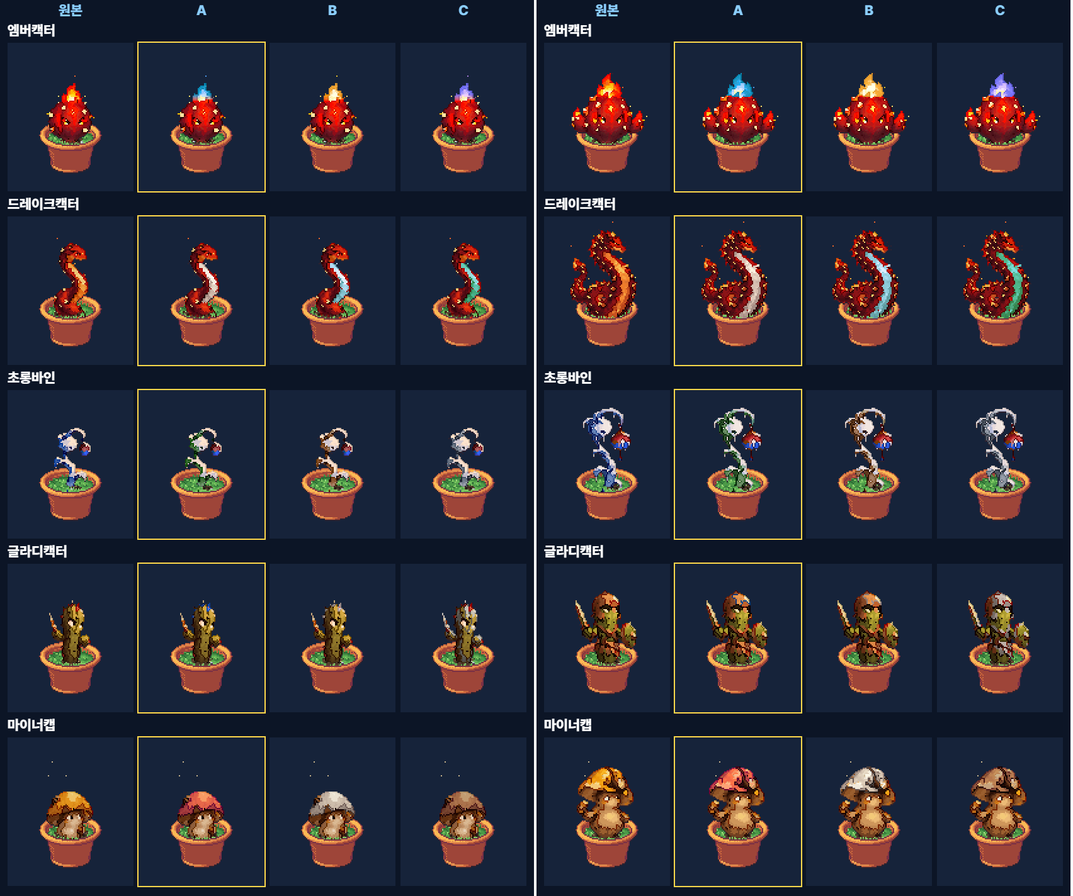
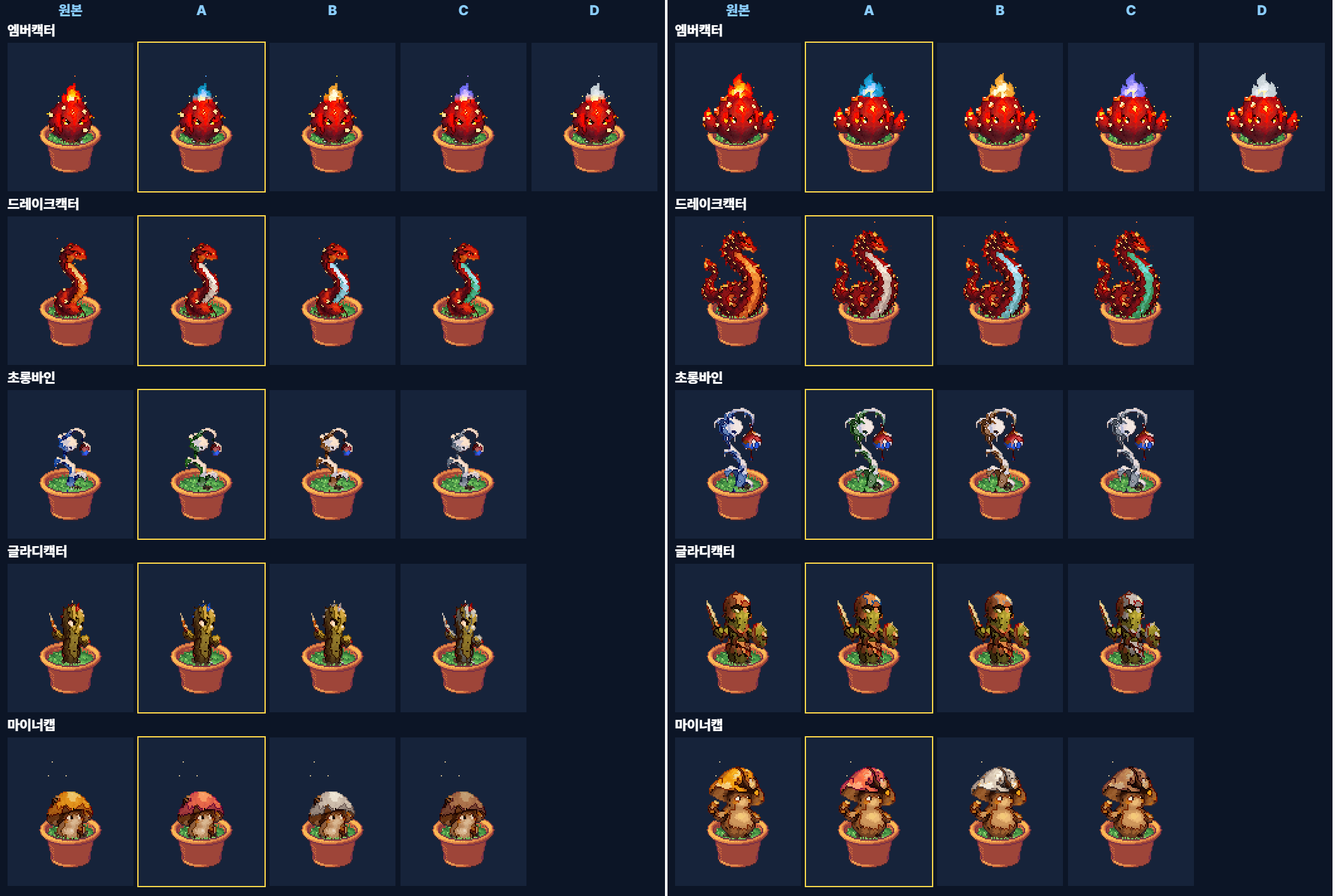
feat: 엠버캑터 색 변종 후보 넷째 — 하얀 불(D)
- 띠의 lk(밝기를 흰색 쪽으로 모음) · 채도 0.06배
- 후보 D: 생성기 fire4 · 검토판 D 칸 · 대표 그림 키 ~s[A-D] · 시험

diff --git a/v2/src/art/shinyRules.js b/v2/src/art/shinyRules.js
@@ -8,7 +8,7 @@ export const SHINY_RULES = {
   flower_wind: { pick: 'A', A: [{ h: [275,340], to: 235 }], B: [{ h: [275,340], to: 350, ck: 0.55, dl: 0.08 }], C: [{ h: [275,340], to: 90, dl: 0.17 }] },
   spark: { pick: 'A', A: [{ h: [75,115], to: 255, ck: 0.45, l: [0.6,1.01] }], B: [{ h: [75,115], to: 350, ck: 0.9, l: [0.6,1.01] }], C: [{ h: [75,115], to: 48, l: [0.6,1.01] }] },
   vine_water: { pick: 'A', A: [{ h: [95,182], to: 88, hs: 0.3, dl: 0.04 }], B: [{ h: [95,182], to: 40, hs: 0.3 }], C: [{ h: [195,265], to: 250, ck: 0.2, dl: 0.15 }] },
-  cactus_fire: { pick: 'A', A: [{ h: [20,110], to: 250, l: [0.58,1.01], c: 0.08, hs: 0.4, part: {"at":[[0,0,1,0.38]],"min":0.12,"air":0.8,"grow":2,"up":3,"gh":[10,60],"gl":[0.3,1.01],"gc":0.12}, ck: 0.8 }, { h: [45,115], to: 250, l: [0.6,1.01], c: 0.1, hs: 0.4, part: {"at":[[0,0,0.18,1],[0.82,0,1,1]],"min":0.3,"up":6,"taper":0.4,"gh":[10,115],"gl":[0.3,1.01],"gc":0.12}, ck: 0.8 }, { h: [10,60], to: 250, l: [0.3,0.75], c: 0.12, hs: 0.4, part: {"at":[],"air":0.75}, ck: 0.8 }], B: [{ h: [20,110], to: 92, l: [0.58,1.01], c: 0.08, hs: 0.4, part: {"at":[[0,0,1,0.38]],"min":0.12,"air":0.8,"grow":2,"up":3,"gh":[10,60],"gl":[0.3,1.01],"gc":0.12}, ck: 1, dl: 0.15 }, { h: [45,115], to: 92, l: [0.6,1.01], c: 0.1, hs: 0.4, part: {"at":[[0,0,0.18,1],[0.82,0,1,1]],"min":0.3,"up":6,"taper":0.4,"gh":[10,115],"gl":[0.3,1.01],"gc":0.12}, ck: 1, dl: 0.15 }, { h: [10,60], to: 92, l: [0.3,0.75], c: 0.12, hs: 0.4, part: {"at":[],"air":0.75}, ck: 1, dl: 0.15 }], C: [{ h: [20,110], to: 300, l: [0.58,1.01], c: 0.08, hs: 0.4, part: {"at":[[0,0,1,0.38]],"min":0.12,"air":0.8,"grow":2,"up":3,"gh":[10,60],"gl":[0.3,1.01],"gc":0.12}, ck: 0.8 }, { h: [45,115], to: 300, l: [0.6,1.01], c: 0.1, hs: 0.4, part: {"at":[[0,0,0.18,1],[0.82,0,1,1]],"min":0.3,"up":6,"taper":0.4,"gh":[10,115],"gl":[0.3,1.01],"gc":0.12}, ck: 0.8 }, { h: [10,60], to: 300, l: [0.3,0.75], c: 0.12, hs: 0.4, part: {"at":[],"air":0.75}, ck: 0.8 }], young: { A: [{ h: [45,115], to: 250, l: [0.6,1.01], c: 0.1, hs: 0.4, part: {"at":[[0,0,1,0.45]],"min":0.15,"up":6,"taper":0.65,"gh":[10,115],"gl":[0.3,1.01],"gc":0.12}, ck: 0.8 }, { h: [10,60], to: 250, l: [0.3,0.75], c: 0.12, hs: 0.4, part: {"at":[],"air":0.75}, ck: 0.8 }], B: [{ h: [45,115], to: 92, l: [0.6,1.01], c: 0.1, hs: 0.4, part: {"at":[[0,0,1,0.45]],"min":0.15,"up":6,"taper":0.65,"gh":[10,115],"gl":[0.3,1.01],"gc":0.12}, ck: 1, dl: 0.15 }, { h: [10,60], to: 92, l: [0.3,0.75], c: 0.12, hs: 0.4, part: {"at":[],"air":0.75}, ck: 1, dl: 0.15 }], C: [{ h: [45,115], to: 300, l: [0.6,1.01], c: 0.1, hs: 0.4, part: {"at":[[0,0,1,0.45]],"min":0.15,"up":6,"taper":0.65,"gh":[10,115],"gl":[0.3,1.01],"gc":0.12}, ck: 0.8 }, { h: [10,60], to: 300, l: [0.3,0.75], c: 0.12, hs: 0.4, part: {"at":[],"air":0.75}, ck: 0.8 }] }, teen: { A: [{ h: [45,115], to: 250, l: [0.6,1.01], c: 0.1, hs: 0.4, part: {"at":[[0.38,0,0.66,0.33]],"up":6,"g":[[20,45,0.5,1.01,0.18]],"fill":[[35,115,0.6,1.01,0.1]]}, ck: 0.8 }, { h: [10,60], to: 250, l: [0.3,0.75], c: 0.12, hs: 0.4, part: {"at":[],"air":0.75}, ck: 0.8 }], B: [{ h: [45,115], to: 92, l: [0.6,1.01], c: 0.1, hs: 0.4, part: {"at":[[0.38,0,0.66,0.33]],"up":6,"g":[[20,45,0.5,1.01,0.18]],"fill":[[35,115,0.6,1.01,0.1]]}, ck: 1, dl: 0.15 }, { h: [10,60], to: 92, l: [0.3,0.75], c: 0.12, hs: 0.4, part: {"at":[],"air":0.75}, ck: 1, dl: 0.15 }], C: [{ h: [45,115], to: 300, l: [0.6,1.01], c: 0.1, hs: 0.4, part: {"at":[[0.38,0,0.66,0.33]],"up":6,"g":[[20,45,0.5,1.01,0.18]],"fill":[[35,115,0.6,1.01,0.1]]}, ck: 0.8 }, { h: [10,60], to: 300, l: [0.3,0.75], c: 0.12, hs: 0.4, part: {"at":[],"air":0.75}, ck: 0.8 }] }, small: { A: [{ h: [45,115], to: 250, l: [0.6,1.01], c: 0.1, hs: 0.4, part: {"at":[[0,0,1,0.36]],"min":0.3,"air":0.8,"up":3,"gh":[10,115],"gl":[0.3,1.01],"gc":0.12}, ck: 0.8 }, { h: [45,115], to: 250, l: [0.6,1.01], c: 0.1, hs: 0.4, part: {"at":[[0,0,0.18,1],[0.82,0,1,1]],"min":0.3,"up":6,"taper":0.4,"gh":[10,115],"gl":[0.3,1.01],"gc":0.12}, ck: 0.8 }, { h: [10,60], to: 250, l: [0.3,0.75], c: 0.12, hs: 0.4, part: {"at":[],"air":0.75}, ck: 0.8 }], B: [{ h: [45,115], to: 92, l: [0.6,1.01], c: 0.1, hs: 0.4, part: {"at":[[0,0,1,0.36]],"min":0.3,"air":0.8,"up":3,"gh":[10,115],"gl":[0.3,1.01],"gc":0.12}, ck: 1, dl: 0.15 }, { h: [45,115], to: 92, l: [0.6,1.01], c: 0.1, hs: 0.4, part: {"at":[[0,0,0.18,1],[0.82,0,1,1]],"min":0.3,"up":6,"taper":0.4,"gh":[10,115],"gl":[0.3,1.01],"gc":0.12}, ck: 1, dl: 0.15 }, { h: [10,60], to: 92, l: [0.3,0.75], c: 0.12, hs: 0.4, part: {"at":[],"air":0.75}, ck: 1, dl: 0.15 }], C: [{ h: [45,115], to: 300, l: [0.6,1.01], c: 0.1, hs: 0.4, part: {"at":[[0,0,1,0.36]],"min":0.3,"air":0.8,"up":3,"gh":[10,115],"gl":[0.3,1.01],"gc":0.12}, ck: 0.8 }, { h: [45,115], to: 300, l: [0.6,1.01], c: 0.1, hs: 0.4, part: {"at":[[0,0,0.18,1],[0.82,0,1,1]],"min":0.3,"up":6,"taper":0.4,"gh":[10,115],"gl":[0.3,1.01],"gc":0.12}, ck: 0.8 }, { h: [10,60], to: 300, l: [0.3,0.75], c: 0.12, hs: 0.4, part: {"at":[],"air":0.75}, ck: 0.8 }] } },   // 특징 5~45° 85% · 손 규칙 A B C young teen small
+  cactus_fire: { pick: 'A', A: [{ h: [20,110], to: 250, l: [0.58,1.01], c: 0.08, hs: 0.4, part: {"at":[[0,0,1,0.38]],"min":0.12,"air":0.8,"grow":2,"up":3,"gh":[10,60],"gl":[0.3,1.01],"gc":0.12}, ck: 0.8 }, { h: [45,115], to: 250, l: [0.6,1.01], c: 0.1, hs: 0.4, part: {"at":[[0,0,0.18,1],[0.82,0,1,1]],"min":0.3,"up":6,"taper":0.4,"gh":[10,115],"gl":[0.3,1.01],"gc":0.12}, ck: 0.8 }, { h: [10,60], to: 250, l: [0.3,0.75], c: 0.12, hs: 0.4, part: {"at":[],"air":0.75}, ck: 0.8 }], B: [{ h: [20,110], to: 92, l: [0.58,1.01], c: 0.08, hs: 0.4, part: {"at":[[0,0,1,0.38]],"min":0.12,"air":0.8,"grow":2,"up":3,"gh":[10,60],"gl":[0.3,1.01],"gc":0.12}, ck: 1, dl: 0.15 }, { h: [45,115], to: 92, l: [0.6,1.01], c: 0.1, hs: 0.4, part: {"at":[[0,0,0.18,1],[0.82,0,1,1]],"min":0.3,"up":6,"taper":0.4,"gh":[10,115],"gl":[0.3,1.01],"gc":0.12}, ck: 1, dl: 0.15 }, { h: [10,60], to: 92, l: [0.3,0.75], c: 0.12, hs: 0.4, part: {"at":[],"air":0.75}, ck: 1, dl: 0.15 }], C: [{ h: [20,110], to: 300, l: [0.58,1.01], c: 0.08, hs: 0.4, part: {"at":[[0,0,1,0.38]],"min":0.12,"air":0.8,"grow":2,"up":3,"gh":[10,60],"gl":[0.3,1.01],"gc":0.12}, ck: 0.8 }, { h: [45,115], to: 300, l: [0.6,1.01], c: 0.1, hs: 0.4, part: {"at":[[0,0,0.18,1],[0.82,0,1,1]],"min":0.3,"up":6,"taper":0.4,"gh":[10,115],"gl":[0.3,1.01],"gc":0.12}, ck: 0.8 }, { h: [10,60], to: 300, l: [0.3,0.75], c: 0.12, hs: 0.4, part: {"at":[],"air":0.75}, ck: 0.8 }], D: [{ h: [20,110], to: 250, l: [0.58,1.01], c: 0.08, hs: 0.4, part: {"at":[[0,0,1,0.38]],"min":0.12,"air":0.8,"grow":2,"up":3,"gh":[10,60],"gl":[0.3,1.01],"gc":0.12}, ck: 0.06, lk: 0.4 }, { h: [45,115], to: 250, l: [0.6,1.01], c: 0.1, hs: 0.4, part: {"at":[[0,0,0.18,1],[0.82,0,1,1]],"min":0.3,"up":6,"taper":0.4,"gh":[10,115],"gl":[0.3,1.01],"gc":0.12}, ck: 0.06, lk: 0.4 }, { h: [10,60], to: 250, l: [0.3,0.75], c: 0.12, hs: 0.4, part: {"at":[],"air":0.75}, ck: 0.06, lk: 0.4 }], young: { A: [{ h: [45,115], to: 250, l: [0.6,1.01], c: 0.1, hs: 0.4, part: {"at":[[0,0,1,0.45]],"min":0.15,"up":6,"taper":0.65,"gh":[10,115],"gl":[0.3,1.01],"gc":0.12}, ck: 0.8 }, { h: [10,60], to: 250, l: [0.3,0.75], c: 0.12, hs: 0.4, part: {"at":[],"air":0.75}, ck: 0.8 }], B: [{ h: [45,115], to: 92, l: [0.6,1.01], c: 0.1, hs: 0.4, part: {"at":[[0,0,1,0.45]],"min":0.15,"up":6,"taper":0.65,"gh":[10,115],"gl":[0.3,1.01],"gc":0.12}, ck: 1, dl: 0.15 }, { h: [10,60], to: 92, l: [0.3,0.75], c: 0.12, hs: 0.4, part: {"at":[],"air":0.75}, ck: 1, dl: 0.15 }], C: [{ h: [45,115], to: 300, l: [0.6,1.01], c: 0.1, hs: 0.4, part: {"at":[[0,0,1,0.45]],"min":0.15,"up":6,"taper":0.65,"gh":[10,115],"gl":[0.3,1.01],"gc":0.12}, ck: 0.8 }, { h: [10,60], to: 300, l: [0.3,0.75], c: 0.12, hs: 0.4, part: {"at":[],"air":0.75}, ck: 0.8 }], D: [{ h: [45,115], to: 250, l: [0.6,1.01], c: 0.1, hs: 0.4, part: {"at":[[0,0,1,0.45]],"min":0.15,"up":6,"taper":0.65,"gh":[10,115],"gl":[0.3,1.01],"gc":0.12}, ck: 0.06, lk: 0.4 }, { h: [10,60], to: 250, l: [0.3,0.75], c: 0.12, hs: 0.4, part: {"at":[],"air":0.75}, ck: 0.06, lk: 0.4 }] }, teen: { A: [{ h: [45,115], to: 250, l: [0.6,1.01], c: 0.1, hs: 0.4, part: {"at":[[0.38,0,0.66,0.33]],"up":6,"g":[[20,45,0.5,1.01,0.18]],"fill":[[35,115,0.6,1.01,0.1]]}, ck: 0.8 }, { h: [10,60], to: 250, l: [0.3,0.75], c: 0.12, hs: 0.4, part: {"at":[],"air":0.75}, ck: 0.8 }], B: [{ h: [45,115], to: 92, l: [0.6,1.01], c: 0.1, hs: 0.4, part: {"at":[[0.38,0,0.66,0.33]],"up":6,"g":[[20,45,0.5,1.01,0.18]],"fill":[[35,115,0.6,1.01,0.1]]}, ck: 1, dl: 0.15 }, { h: [10,60], to: 92, l: [0.3,0.75], c: 0.12, hs: 0.4, part: {"at":[],"air":0.75}, ck: 1, dl: 0.15 }], C: [{ h: [45,115], to: 300, l: [0.6,1.01], c: 0.1, hs: 0.4, part: {"at":[[0.38,0,0.66,0.33]],"up":6,"g":[[20,45,0.5,1.01,0.18]],"fill":[[35,115,0.6,1.01,0.1]]}, ck: 0.8 }, { h: [10,60], to: 300, l: [0.3,0.75], c: 0.12, hs: 0.4, part: {"at":[],"air":0.75}, ck: 0.8 }], D: [{ h: [45,115], to: 250, l: [0.6,1.01], c: 0.1, hs: 0.4, part: {"at":[[0.38,0,0.66,0.33]],"up":6,"g":[[20,45,0.5,1.01,0.18]],"fill":[[35,115,0.6,1.01,0.1]]}, ck: 0.06, lk: 0.4 }, { h: [10,60], to: 250, l: [0.3,0.75], c: 0.12, hs: 0.4, part: {"at":[],"air":0.75}, ck: 0.06, lk: 0.4 }] }, small: { A: [{ h: [45,115], to: 250, l: [0.6,1.01], c: 0.1, hs: 0.4, part: {"at":[[0,0,1,0.36]],"min":0.3,"air":0.8,"up":3,"gh":[10,115],"gl":[0.3,1.01],"gc":0.12}, ck: 0.8 }, { h: [45,115], to: 250, l: [0.6,1.01], c: 0.1, hs: 0.4, part: {"at":[[0,0,0.18,1],[0.82,0,1,1]],"min":0.3,"up":6,"taper":0.4,"gh":[10,115],"gl":[0.3,1.01],"gc":0.12}, ck: 0.8 }, { h: [10,60], to: 250, l: [0.3,0.75], c: 0.12, hs: 0.4, part: {"at":[],"air":0.75}, ck: 0.8 }], B: [{ h: [45,115], to: 92, l: [0.6,1.01], c: 0.1, hs: 0.4, part: {"at":[[0,0,1,0.36]],"min":0.3,"air":0.8,"up":3,"gh":[10,115],"gl":[0.3,1.01],"gc":0.12}, ck: 1, dl: 0.15 }, { h: [45,115], to: 92, l: [0.6,1.01], c: 0.1, hs: 0.4, part: {"at":[[0,0,0.18,1],[0.82,0,1,1]],"min":0.3,"up":6,"taper":0.4,"gh":[10,115],"gl":[0.3,1.01],"gc":0.12}, ck: 1, dl: 0.15 }, { h: [10,60], to: 92, l: [0.3,0.75], c: 0.12, hs: 0.4, part: {"at":[],"air":0.75}, ck: 1, dl: 0.15 }], C: [{ h: [45,115], to: 300, l: [0.6,1.01], c: 0.1, hs: 0.4, part: {"at":[[0,0,1,0.36]],"min":0.3,"air":0.8,"up":3,"gh":[10,115],"gl":[0.3,1.01],"gc":0.12}, ck: 0.8 }, { h: [45,115], to: 300, l: [0.6,1.01], c: 0.1, hs: 0.4, part: {"at":[[0,0,0.18,1],[0.82,0,1,1]],"min":0.3,"up":6,"taper":0.4,"gh":[10,115],"gl":[0.3,1.01],"gc":0.12}, ck: 0.8 }, { h: [10,60], to: 300, l: [0.3,0.75], c: 0.12, hs: 0.4, part: {"at":[],"air":0.75}, ck: 0.8 }], D: [{ h: [45,115], to: 250, l: [0.6,1.01], c: 0.1, hs: 0.4, part: {"at":[[0,0,1,0.36]],"min":0.3,"air":0.8,"up":3,"gh":[10,115],"gl":[0.3,1.01],"gc":0.12}, ck: 0.06, lk: 0.4 }, { h: [45,115], to: 250, l: [0.6,1.01], c: 0.1, hs: 0.4, part: {"at":[[0,0,0.18,1],[0.82,0,1,1]],"min":0.3,"up":6,"taper":0.4,"gh":[10,115],"gl":[0.3,1.01],"gc":0.12}, ck: 0.06, lk: 0.4 }, { h: [10,60], to: 250, l: [0.3,0.75], c: 0.12, hs: 0.4, part: {"at":[],"air":0.75}, ck: 0.06, lk: 0.4 }] } },   // 특징 5~45° 85% · 손 규칙 A B C D young teen small
   gaia: { pick: 'A', A: [{ h: [160,220], to: 300, c: 0.04 }], B: [{ h: [160,220], to: 355, c: 0.04 }], C: [{ h: [160,220], to: 88, c: 0.04, dl: 0.12 }] },
   flower_fire: { pick: 'A', A: [{ h: [5,45], to: 262 }], B: [{ h: [5,45], to: 305 }], C: [{ h: [5,45], to: 92, dl: 0.17 }] },
   cactus_wind: { pick: 'B', A: [{ h: [70,175], to: 168, hs: 0.4, l: [0.24,0.9], ck: 0.7 }], B: [{ h: [70,175], to: 88, hs: 0.4, l: [0.24,0.9], dl: 0.06 }], C: [{ h: [70,175], to: 330, hs: 0.4, l: [0.24,0.9], ck: 0.55 }] },

diff --git a/v2/src/scenes/shinyboard.js b/v2/src/scenes/shinyboard.js
@@ -5,16 +5,18 @@ import { drawBig } from '../art/sprites.js';
 import { SPECIES } from '../game/catalog.js';
 import { SHINY_RULES } from '../art/shinyRules.js';
 export function shinyBoard(keys, scale = 2, stage = '') {
-  const CW = 104, CH = 118, TOP = 16, W = 4 * CW + 8, H = TOP + keys.length * (CH + 20) + 6;
+  const vs = ['', 'A', 'B', 'C', ...(keys.some(k => SHINY_RULES[k] && SHINY_RULES[k].D) ? ['D'] : [])];   // 후보 넷인 종(엠버캑터 — 2026-10-22)이 있으면 D 칸
+  const CW = 104, CH = 118, TOP = 16, W = vs.length * CW + 8, H = TOP + keys.length * (CH + 20) + 6;
   const cv = document.createElement('canvas'); cv.width = W * scale; cv.height = H * scale;
   const c = cv.getContext('2d'); c.setTransform(scale, 0, 0, scale, 0, 0); c.imageSmoothingEnabled = false;
   const g = new Gfx(c);
   g.rect(0, 0, W, H, '#0c1526');
-  ['원본', 'A', 'B', 'C'].forEach((t, j) => g.text(t, 4 + j * CW + CW / 2, 3, { font: 'bold', color: '#8ccfff', align: 'center' }));
+  vs.forEach((t, j) => g.text(t || '원본', 4 + j * CW + CW / 2, 3, { font: 'bold', color: '#8ccfff', align: 'center' }));
   keys.forEach((k, i) => {
     const y = TOP + i * (CH + 20), pick = SHINY_RULES[k] && SHINY_RULES[k].pick;
     g.text((SPECIES[k] || {}).name || k, 6, y + 3, { font: 'bold', color: '#ffffff' });
-    ['', 'A', 'B', 'C'].forEach((v, j) => {
+    vs.forEach((v, j) => {
+      if (v && !(SHINY_RULES[k] && SHINY_RULES[k][v])) return;   // 그 후보가 없는 종은 빈칸
       const x = 4 + j * CW;
       if (v && v === pick) g.rect(x + 1, y + 17, CW - 2, CH + 2, '#ffd84a');
       g.rect(x + 2, y + 18, CW - 4, CH, '#16233a');

diff --git a/v2/src/art/sprites.js b/v2/src/art/sprites.js
@@ -30,7 +30,7 @@ export const BIG = {}, POT_BIG = {};
 // 처음 화면 대표 식물(2026-10-17 사용자 "이미 로그인 되어 있으면 그 식물을 초반 화면에"): 홈에서 본 내 식물(그림 키 · 화분)을 이 브라우저에 기억 —
 //  로그인 열쇠가 있으면 그 식물, 없으면 바위 선인장(가이아록)
 const HERO_KEY = 'pullo.hero';
-export function heroSaved() { try { if (!localStorage.getItem('pullo.token')) return null; const h = JSON.parse(localStorage.getItem(HERO_KEY) || 'null'); return Array.isArray(h) && typeof h[0] === 'string' && /^[a-z_]+(~s[A-C]?)?$/.test(h[0]) ? [h[0], typeof h[1] === 'string' && /^pot_[a-z]+$/.test(h[1]) ? h[1] : 'pot_terra'] : null; } catch { return null; } }   // ~s = 색 변종(2026-10-22)
+export function heroSaved() { try { if (!localStorage.getItem('pullo.token')) return null; const h = JSON.parse(localStorage.getItem(HERO_KEY) || 'null'); return Array.isArray(h) && typeof h[0] === 'string' && /^[a-z_]+(~s[A-D]?)?$/.test(h[0]) ? [h[0], typeof h[1] === 'string' && /^pot_[a-z]+$/.test(h[1]) ? h[1] : 'pot_terra'] : null; } catch { return null; } }   // ~s = 색 변종(2026-10-22)
 let heroLast = null;
 export function heroRemember(key, pot) { const v = JSON.stringify([key, pot || 'pot_terra']); if (v === heroLast) return; heroLast = v; try { localStorage.setItem(HERO_KEY, v); } catch {} }
 const HERO0 = heroSaved(), HERO0K = HERO0 && HERO0[0].replace(/~s.*$/, '');   // 받을 그림 = 색 변종 꼬리를 뗀 원래 그림

diff --git a/v2/src/art/shinyColor.js b/v2/src/art/shinyColor.js
@@ -34,7 +34,7 @@ function hits(t, L, C, H) {
 }
 // w = 바뀌는 정도(1 = 다 · 0.5 = 원래 색과 반반 — part.fade 의 옅어지는 칸)
 function paint(t, L, C, H, dl, w = 1) {
-  let L2 = L + dl, C2, H2;
+  let L2 = (t.lk != null ? 1 - (1 - L) * t.lk : L) + dl, C2, H2;   // lk = 흰색 쪽으로 밝기 모으기(1 − (1 − L) × lk — 하얀 불: 명암 차는 줄이되 순서는 그대로)
   if (t.tint) {
     const [l0, l1] = t.l || [0.24, 1.01], k = Math.max(0, Math.min(1, (L - l0) / 0.15) * Math.min(1, (l1 - L) / 0.06 + 0.35));   // 띠 끝은 살살(흰 반짝임은 덜 물듦)
     C2 = Math.max(C, t.tint[1] * k); H2 = t.tint[0];

diff --git a/docs/superpowers/specs/2026-10-16-v2-mvp-design.md b/docs/superpowers/specs/2026-10-16-v2-mvp-design.md
@@ -10,7 +10,7 @@
 - **10-22 아침:** 사용자 결정 = 카드는 끼운 식물에 귀속(CHANGELOG 191 — 가져오기 뺌, 일반 식물도 패시브 보관 셋, 보관에서 버리기 = 팔 값). 사용자 ‘올릴 때 버그나 데이터 손실이 없도록’ → 올리기 전 안전 점검(192 — `tools/test/prodcheck.mjs`로 친구 서버 저장 백업 + 새 코드로 계정마다 미리 돌려 보기 = 문제 없음, `SAVE_VER` 2로 올린 뒤 원본 자동 보관, 되돌리기 판 `f4b9fc9b`). **사용자 ‘안전 점검대로 친구 서버에 올려’ → 올림(CHANGELOG 193, 판 `4c2dabdd`).**
 - **10-22 올린 뒤(오후에 함께 올림 — CHANGELOG 201):** 바람 다시(CHANGELOG 194 초승달 줄기 · 195 언덕 타기 + 롤러코스터 고리 — 사용자 ‘너무 일자로 빙빙돌아’ → ‘좀더 꿀렁하게 웨이브를 타는 느낌 · 롤로코스터처럼 한바퀴’) · 배너 = 프로필 홀로그램 창 디자인 열둘(196 — 사용자 정정 ‘아이콘의 테두리가 아니야. 홀로그램창의 디자인을 배너라고 말한거야’, 188의 색 띠 · 아이콘 테 방식은 버림) · 종자 가방 = 카드 · 정렬(197). 시험 전부 통과.
 - **10-22 낮(오후에 함께 올림):** 종자 · 상점 물건 그림 = 코덱스 디자인(종자는 식물마다 다른 마흔다섯 · 속성 대신 그림 일곱 · 물건 아홉) · 별에 따른 종자 차이(빛 효과 + 값 별 하나 +25%) · 종자 가방 = 단추 없는 카드 · 누르면 펼침 · 꾹 고르기 여러 개 팔기(`sellSeeds`) · 특별 표시는 그림을 가리지 않게(CHANGELOG 198). 사용자가 ‘그 외 대충 그린 아이콘 중 바꿀 것 추천’ 요청 → 추천 일곱 묶음 → ‘전부해봐’ → 하단 탭 · 홈 단추 · 돈 · 보석 · 속성 · 종류 · 능력치 · 전투 상태 열여덟 · 레벨업 상자(뚜껑이 들리는 코덱스 상자) · 탐사 행성 열하나 + 물건 그림 재활용(물 · 비료 단추 · 결과 보상 · 연료 · 카드 꾸러미)을 코덱스 디자인 도트로(CHANGELOG 199 — 11칸으로 줄이면 뭉개지는 여섯은 1배 자리만 손그림 유지). 이어서 사용자 ‘아이콘 비슷한게 있는데 … 엑셀로 작업중인 변경될 예정인걸 기준으로’ → 효과 아이콘을 엑셀 v10 효과 하나에 하나로 다시(CHANGELOG 200 · 짝 표 `specs/2026-10-22-v2-effect-icons.md` — 능력치 강화 · 약화 = 능력치 아이콘 + 화살표, 이름은 엑셀 적용 때 바꿈).
-- **10-22 늦은 오후(아직 안 올림):** 사용자 ‘다음 작업 뭐 있을까 스킬 구상 말고’ → 남은 일 목록(색 변종 · 3:3 햇빛 · 접목 카드 · 눈 다시 · 얼굴 사진 · 영양제 · 공지 팝업 · 순위표 등)을 드림 → ‘색 변종 그림부터’ → 몸 색이 진짜로 바뀜(CHANGELOG 202 — 종마다 후보 A · B · C, 클로드 추천을 넣어 둠). 사용자가 검토판(`tools/pixel/big/out/shiny/board_1~5.png`)에서 종마다 고르면 `tools/pixel/big/shiny.mjs PICK`만 바꿈. 확률(1/64 → 1/500쯤)은 확인 전. 이어서 사용자 ‘페탈로즈 c의 풀색이 너무 징그러워 · 자연스러운 부분에 자연스럽게 · 쨍하게 전체색이 바뀐게 어색해’ → 잎은 자연에 있는 색만 · 꽃 · 갓 · 옷처럼 자연스러운 부분 위주 · 채도 낮춤으로 다시(CHANGELOG 203). 다시 열한 종 지적(‘몸 전체를 덮거나 · 너무 쨍하거나 · 색이 안 어울리는’) → 한 부분만(불꽃 · 결정 · 입 · 배 · 탈 · 깃 · 투구 · 갑옷 · 갓 · 목도리) + 위치 조건 box · 초롱바인 원래 그림 등불을 빨강이 위로(CHANGELOG 204 — 다시 내보내면 `fix_lantern.mjs`). 다시 다섯 종 지적(엠버캑터 불 테두리 · 불 안쪽 일자 잘림 · 드레이크캑터 가시까지 바뀜 · 초롱바인 달라진 게 안 보임 · 등불 파랑 아래 일자 잘림 · 글라디캑터 깃 바깥 테두리 · 마이너캡 갓 그늘 · 얼굴까지) → 네모 대신 이어진 덩어리로 고르기(`part`) · 단계별 규칙(어린 · 자람 · 작은 그림) · 초롱바인 덩굴 색 바꿈 · 등불은 천 덩어리째 맞바꿈(CHANGELOG 205, 술은 사용자 ‘괜찮네’로 그대로). 이어서 ‘앰버캑터 성장체+성체의 팔 부분도 염색 … 불만 염색하거나 아니면 아예 빼’ → 팔은 그대로 · 팔 끝 불꽃만(CHANGELOG 206) · 자람 왼팔 네모 자국 · 머리 꼭대기 번짐 고침 + B 갈색 불 → 노란 불(207). **사용자 검토 대기:** 다섯 종 전 · 뒤 `tools/pixel/big/out/shiny/fix5_before_after.png` · 엠버캑터 팔 전 · 뒤 `fix_ember_arms.png` · 어린 · 자람 `fix5_stages.png`.
+- **10-22 늦은 오후(아직 안 올림):** 사용자 ‘다음 작업 뭐 있을까 스킬 구상 말고’ → 남은 일 목록(색 변종 · 3:3 햇빛 · 접목 카드 · 눈 다시 · 얼굴 사진 · 영양제 · 공지 팝업 · 순위표 등)을 드림 → ‘색 변종 그림부터’ → 몸 색이 진짜로 바뀜(CHANGELOG 202 — 종마다 후보 A · B · C, 클로드 추천을 넣어 둠). 사용자가 검토판(`tools/pixel/big/out/shiny/board_1~5.png`)에서 종마다 고르면 `tools/pixel/big/shiny.mjs PICK`만 바꿈. 확률(1/64 → 1/500쯤)은 확인 전. 이어서 사용자 ‘페탈로즈 c의 풀색이 너무 징그러워 · 자연스러운 부분에 자연스럽게 · 쨍하게 전체색이 바뀐게 어색해’ → 잎은 자연에 있는 색만 · 꽃 · 갓 · 옷처럼 자연스러운 부분 위주 · 채도 낮춤으로 다시(CHANGELOG 203). 다시 열한 종 지적(‘몸 전체를 덮거나 · 너무 쨍하거나 · 색이 안 어울리는’) → 한 부분만(불꽃 · 결정 · 입 · 배 · 탈 · 깃 · 투구 · 갑옷 · 갓 · 목도리) + 위치 조건 box · 초롱바인 원래 그림 등불을 빨강이 위로(CHANGELOG 204 — 다시 내보내면 `fix_lantern.mjs`). 다시 다섯 종 지적(엠버캑터 불 테두리 · 불 안쪽 일자 잘림 · 드레이크캑터 가시까지 바뀜 · 초롱바인 달라진 게 안 보임 · 등불 파랑 아래 일자 잘림 · 글라디캑터 깃 바깥 테두리 · 마이너캡 갓 그늘 · 얼굴까지) → 네모 대신 이어진 덩어리로 고르기(`part`) · 단계별 규칙(어린 · 자람 · 작은 그림) · 초롱바인 덩굴 색 바꿈 · 등불은 천 덩어리째 맞바꿈(CHANGELOG 205, 술은 사용자 ‘괜찮네’로 그대로). 이어서 ‘앰버캑터 성장체+성체의 팔 부분도 염색 … 불만 염색하거나 아니면 아예 빼’ → 팔은 그대로 · 팔 끝 불꽃만(CHANGELOG 206) · 자람 왼팔 네모 자국 · 머리 꼭대기 번짐 고침 + B 갈색 불 → 노란 불(207) · 사용자 ‘하얀불 버전도 … 얘는 4개인걸로’ → 엠버캑터만 후보 넷(D 하얀 불, 209). **사용자 검토 대기:** 다섯 종 전 · 뒤 `tools/pixel/big/out/shiny/fix5_before_after.png` · 엠버캑터 팔 전 · 뒤 `fix_ember_arms.png` · 어린 · 자람 `fix5_stages.png`.
 - **다음:** 10-22 오후 사용자 ‘ㄱㄱ’로 위 묶음(194~200)을 친구 서버에 올림(CHANGELOG 201 — 판 `36180eb2` · 되돌리기 `4c2dabdd` · 저장 판 번호 3). 그다음 친구들이 새 판으로 놀아 본 반응 · 플레이 기록(`node server/report.mjs --url https://pulloseum.getchat.workers.dev`)으로 랭크 속도 · 카드 귀속 · 경제를 확인 → 아래 이전 맥락의 종 핑퐁(프로스트벨 초안 검토 → 14번 볼트바인).
 - **미결(검토):** 변이 패시브도 강화할지 · 랭크 속도(어림 풀로세움까지 350판) · 배너 열둘의 해금 레벨(오로라 3 · 별빛 5 · 성운 8 · 잎맥 10 · 물결 15 · 회로 20 · 황금 25 · 풀로세움 30) · 바람 모양(검토 영상 `tools/pixel/big/out/conv/<키>_idle.mp4`).
 

diff --git a/docs/v2-development-reference.md b/docs/v2-development-reference.md
@@ -8,7 +8,7 @@
 
 - 🧩 **아이콘 · 물건 · 종자 그림 = 코덱스 디자인 → 작은 도트(2026-10-22 사용자 ‘전부해봐’):** 원화는 회색 배경 한 장에 넷(`tools/pixel/big/concept/icons2/` · `concept/items/`), 변환 = `node tools/pixel/big/icons.mjs [이름…]`(아이콘 · 레벨업 상자 · 탐사 행성 → `assets/v2/icons/`) · `items.mjs`(종자 · 물건 → `assets/v2/items/`), 둘 다 `greycut.mjs` 누끼 → `itemconv.mjs`(OKLab 팔레트 · 칸 최빈 색 · 먹선, 여러 그림을 같은 틀에 맞출 땐 `--box`). 게임은 `art/icons.js`의 `icon(이름)`이 그림을 먼저 돌려줌 — 손그림과 같은 크기(11칸 · 탭 15칸)라 자리 그대로, 2배로 그리던 자리는 `<이름>_b`(22 · 30칸)를 저절로(`gfx.js img`), 하단 탭 띠 = `_n` 22칸. 줄이면 뭉개지는 것은 `SMALL_KEEP`(1배 자리만 손그림), 새 이름은 그림이 없으면 `ALIAS`. 새 아이콘 = 요청서에 한 칸 + `icons.mjs SHEETS` + `ART_ICONS`. **효과 아이콘은 효과 · 스킬 분류 엑셀의 효과 하나에 하나**(짝 표 `docs/superpowers/specs/2026-10-22-v2-effect-icons.md` — 엑셀이 바뀌면 같이 고침, 속성 · 종류 · 능력치 아이콘을 효과에 빌려 쓰지 말 것, 능력치 강화 · 약화 = `fxStat` 능력치 아이콘 + 화살표, 검토판 `?scene=fxlab`). 조각이 떨어진 그림은 `icons.mjs PARTS`(누끼에서 큰 덩어리만 남기지 않음). 레벨업 상자 = 몸통(열린 그림) + 뚜껑(닫힌 그림의 이음매 `SEAM` 위) 같은 틀 64×54.
 
-- 🌈 **색 변종(이로치) 그림(2026-10-22):** 그림을 따로 두지 않고 게임이 처음 그릴 때 색을 바꿔 굽는다(`art/shiny.js` · 공용 `art/shinyColor.js` — OKLCH 색 무리의 색상만 돌림, 눈 = 깜빡임 장 비교 · 흙 덮기 색은 그대로). 규칙 = `art/shinyRules.js`(종마다 후보 A · B · C + pick — `tools/pixel/big/shiny.mjs auto`가 뽑고 손 규칙 `HAND` · 추천 `PICK`, 사용자가 고르면 `PICK`만 바꾸고 `auto --force`). 그림 키 꼬리 `~s` = 그 식물의 색 변종 — **식물을 그리는 새 화면은 `bigKey(키, 단계, p.shiny)`나 `키 + '~s'`로 넘기고, 큰 판을 읽을 땐 `BIG[키]` 대신 `bigOf(키)`**. 새 종을 넣으면 `shiny.mjs auto`(그 종만 새로 뽑힘) → 검토판 `node tools/shots/shinyboard.mjs <키>`. **사용자 기준(2026-10-22 두 번 교정): 잎 · 줄기는 자연에 있는 색만, 몸 전체를 쨍하게 바꾸지 말고 꽃 · 갓 · 불꽃 · 탈 · 갑옷 · 목도리처럼 한 부분만.** 색으로 못 가르는 부분은 **이어진 덩어리 고르기 `part`**(무게중심 자리 `at` · 크기 `min` · `big` · 떠다니는 `air` · 테두리 넓힘 `grow` · `up` · 이어진 색 `fill` · 밑동 옅게 `taper` — 뜻은 `shinyColor.js` 머리글)로 — **네모 `box`는 같은 색 덩어리를 일자로 잘라 '직선으로 짤림'이 됨(2026-10-22 교정, 엠버캑터 불꽃 · 마이너캡 얼굴)**, 테두리 · 혀끝처럼 바깥 줄도 같이 바꿀 것(‘불 테두리’ · ‘머리 장식 바깥 테두리’). 생장 단계 · 작은 그림에서 부위 모양이 다르면 종 규칙에 `young` · `teen` · `small` 후보를 따로 둠(`HAND`). 확인은 성체 · 어린 · 자람 검토판(`shinyboard.mjs --stage young|teen`)과 작은 그림까지.
+- 🌈 **색 변종(이로치) 그림(2026-10-22):** 그림을 따로 두지 않고 게임이 처음 그릴 때 색을 바꿔 굽는다(`art/shiny.js` · 공용 `art/shinyColor.js` — OKLCH 색 무리의 색상만 돌림, 눈 = 깜빡임 장 비교 · 흙 덮기 색은 그대로). 규칙 = `art/shinyRules.js`(종마다 후보 A · B · C(엠버캑터는 D 하얀 불까지 넷 — 2026-10-22 사용자 ‘얘는 4개인걸로’) + pick — `tools/pixel/big/shiny.mjs auto`가 뽑고 손 규칙 `HAND` · 추천 `PICK`, 사용자가 고르면 `PICK`만 바꾸고 `auto --force`). 그림 키 꼬리 `~s` = 그 식물의 색 변종 — **식물을 그리는 새 화면은 `bigKey(키, 단계, p.shiny)`나 `키 + '~s'`로 넘기고, 큰 판을 읽을 땐 `BIG[키]` 대신 `bigOf(키)`**. 새 종을 넣으면 `shiny.mjs auto`(그 종만 새로 뽑힘) → 검토판 `node tools/shots/shinyboard.mjs <키>`. **사용자 기준(2026-10-22 두 번 교정): 잎 · 줄기는 자연에 있는 색만, 몸 전체를 쨍하게 바꾸지 말고 꽃 · 갓 · 불꽃 · 탈 · 갑옷 · 목도리처럼 한 부분만.** 색으로 못 가르는 부분은 **이어진 덩어리 고르기 `part`**(무게중심 자리 `at` · 크기 `min` · `big` · 떠다니는 `air` · 테두리 넓힘 `grow` · `up` · 이어진 색 `fill` · 밑동 옅게 `taper` — 뜻은 `shinyColor.js` 머리글)로 — **네모 `box`는 같은 색 덩어리를 일자로 잘라 '직선으로 짤림'이 됨(2026-10-22 교정, 엠버캑터 불꽃 · 마이너캡 얼굴)**, 테두리 · 혀끝처럼 바깥 줄도 같이 바꿀 것(‘불 테두리’ · ‘머리 장식 바깥 테두리’). 생장 단계 · 작은 그림에서 부위 모양이 다르면 종 규칙에 `young` · `teen` · `small` 후보를 따로 둠(`HAND`). 확인은 성체 · 어린 · 자람 검토판(`shinyboard.mjs --stage young|teen`)과 작은 그림까지.
 
 ## 2. 서버·저장·로그인·검증
 

diff --git a/docs/CHANGELOG.md b/docs/CHANGELOG.md
@@ -2,6 +2,13 @@
 
 > CLAUDE.md에서 분리한 전체 개발 로그. 최신 작업이 맨 위. 과거 맥락이 필요할 때만 읽으세요.
 
+### 2026-10-22 (209) — 엠버캑터 색 변종 후보 넷째: 하얀 불(D)
+
+- 사용자 ‘하얀불 버전도 만들어봐 얘는 4개인걸로하자’ → 엠버캑터만 후보 넷(A 파란 · B 노란 · C 보라 · D 하얀 불), 다른 종은 셋 그대로.
+- **하얀 불 = 밝기를 흰색 쪽으로 모음**(띠의 새 `lk` — 1 − (1 − 밝기) × 0.4, 명암 순서는 그대로) + 채도 0.06배(아주 옅은 푸른 기 — 채도를 다 빼면 잿빛, 따뜻한 쪽은 다시 갈색으로 보였음). 성체 · 자람 · 어린 · 작은 그림 같은 부위 규칙.
+- 후보 D를 받게: 규칙 생성기(`shiny.mjs` `fire4` · `fmtSet`) · 검토판(`scenes/shinyboard.js` — D가 있는 종이 끼면 D 칸, 없는 종은 빈칸) · 저장된 대표 그림 키(`sprites.js heroSaved` `~s[A-D]`) · 시험(고른 후보가 그 종에 있는지까지). 게임에 나오는 것은 지금처럼 종마다 고른 하나(엠버캑터 추천 A).
+- 검토판 `tools/pixel/big/out/shiny/board_1.png`(D 칸) · `fix5_adult.png` · `fix5_stages.png` 다시 · `board_2.png`는 볼트바인 눈 고친 그림(208)이 들어감 · 시험 23 통과.
+
 ### 2026-10-22 (208) — 볼트바인: 중간체·성체 눈 살림 + 전선·번개 구체 강조(구체 체인 번개)
 
 - 사용자 ‘중간체와 성체 눈이 없는데 확인해봐’ → 원인 둘. ① ‘눈 반짝임 살리기’가 비스듬한 눈 타원 구석의 밝은 살결까지 밝은 점으로 잡아, 무게중심 칸(= 하나뿐인 금색 눈동자 칸)을 살결 색 최밝단으로 덮음 → `convert.mjs TUNE[키].eyeGleam: false`(볼트바인만 끔). ② ‘외딴 재질 칸 정리’가 한 칸뿐인 금색 눈동자(이웃 8칸 모두 살결)를 이웃 다수 재질로 바꿈 → 눈 둘레 보호(protect) 칸은 외딴 칸 정리에서도 건너뜀(전 종 공통 — 다음 변환부터 적용, 기존 그림은 그대로).
